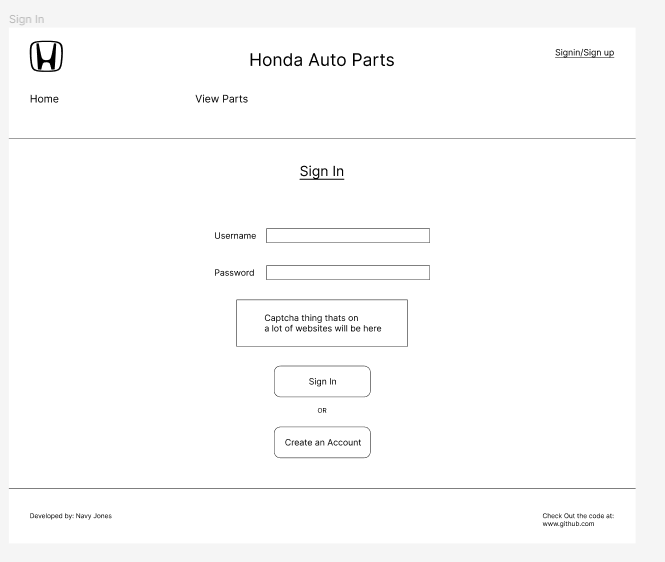
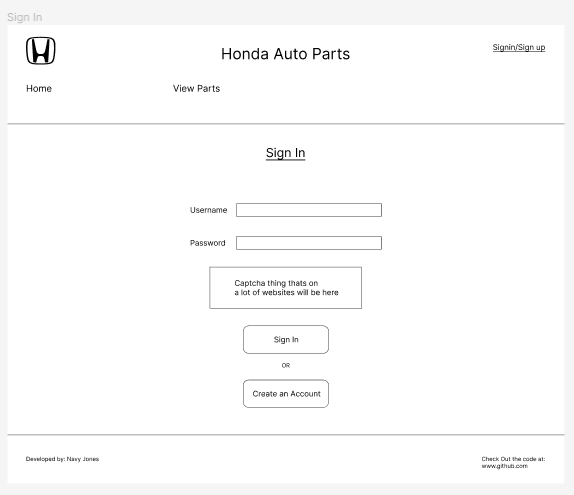
Redid the screen designs, readme, project plan and user stories for the change in direction for the project

diff --git a/README.md b/README.md
@@ -3,16 +3,20 @@
 This repository will house my individual project for Enterprise Java.
 
 ### Problem Statement
-For this project I wanted to recreate a project that I built in my Intro
-to PHP w/MySQL class a few semesters ago (here it is on GitHub https://github.com/jonesna213/Auto-Parts-Project). 
-The project is a honda civic auto parts shop where the user is able to create an account, view/search parts, 
-add/remove parts to a cart, and checkout (not an actual payment process, just for show). This project
-doesn't have any real purpose I just think it would be fun to create a most realistic ecommerce
-website as I can since I have gained more knowledge than I had when I built it the first time.
-Some addons I would like to add if I have time after doing the basics are things like saving items
-to a favorites, check fitment (I believe there's api's that do this), some way to update the items
-as in put new items in and update the prices based off what there being sold for.
-
+For this project I started wanting to recreate a project I built in my Intro to PHP w/MySQL class a few semesters
+ago (here it is on GitHub https://github.com/jonesna213/Auto-Parts-Project), but I decided I wanted to change it up a bit. 
+Instead of it being a shopping website I wanted to turn it into a parts look up site. Still for 6th gen Honda 
+Civics, but a site similar to https://pcpartpicker.com where you can search for parts and then for each part 
+it will show you different websites where they are being sold, so comparing prices and finding parts becomes 
+easier. The big challenge for this project is going to be getting all the data from different websites and putting
+it all together into my site. I think its do-able, but going to be difficult. In the site you will be able to
+create and account, view/search for parts and save/un-save parts. For the searching for parts it will be you 
+can search by name or part # also by category like breaks, exhaust, engine, etc. Some possible addons if time allows
+would be to add like a save your vehicle feature where it only shows parts that fit your vehicle (even though
+most 6th gen Civic parts are the same, some are slightly different. Trust me, ive ran into that problem before). 
+My goal would be to get all the parts on the site, but I know that's not completely reasonable for the time frame.
+So, my goal is to get as many as possible and keep expanding it even after class is over because as an owner of a
+6th gen Civic this would be very helpful and some friends of mine would like it as well.
 
 ### Project Technologies/Techniques
  * Database
@@ -20,16 +24,16 @@ as in put new items in and update the prices based off what there being sold for
  * IDE
    * IntelliJ IDEA
  * CSS
-   * Bootstrap & custom css
+   * Bootstrap 5 & custom css
  * Dependency Management
-   * Maven
+   * Maven 3
  * Security/Authentication
-   * Tomcat's JDBC Realm Authentication
+   * Amazon Cognito
  * ORM Framework
-   * Hibernate
+   * Hibernate 5
  * Web Services consumed using Java
-   * TBD thinking maybe the captcha thing that's on a lot of websites when signing in if 
-     I can't think of anything else
+   * Google Captcha for signing in
+   * Possibly more, will update if needed
  * Data Validation
    * JQuery form validation
  * Logging
@@ -38,9 +42,10 @@ as in put new items in and update the prices based off what there being sold for
    * AWS
  * Independent Research Topic
    * JQuery form validation
-   * Will add more when needed
+   * JSoup
+   * Possibly more, will update if needed
  * Unit Testing
-   * JUnit
+   * JUnit 4.12
 
 ### [Screens Designs](DesignDocuments/ScreenDesign.md)
 ### [Project Plan](DesignDocuments/ProjectPlan.md)

diff --git a/DesignDocuments/UserStories.md b/DesignDocuments/UserStories.md
@@ -2,36 +2,33 @@
 
 _! = MVP_ 
 ### Sign up
-! As a new user I want to create an account so that I can add items to my cart 
+! As a new user I want to create an account so that I can save items
 
 ### Sign In
-! As a user I want to be able to sign in so that I can add items to my cart\
+! As a user I want to be able to sign in so that I can save items\
 ! As a user I want to be able to sign out with a verification that I want to sign out
 
 ### Search
-! As a user I want to be able to search for items to add to my cart \
-As a user I want to be able to search by category
+! As a user I want to be able to search for items to save \
+! As a user I want to be able to search by category \
+! As a user I want to be able to search by part #
 
 ### Items
-! As a user I want to be able to see a picture of items, see the cost, and select a quantity 
+! As a user I want to be able to see a picture of items, see the cost from different websites, 
+and be able save items \
+As a user I want to be able to rate items and see ratings \
+As a user I want to be able to leave a review and see reviews
 
-### Checkout
-! As a user I want to be able to see my total so that I can verify It's correct before checkout\
-As a user I want to get an email receipt of my order so that I have a proof of purchase
-
-### Cart
-! As a user I want to see how many items are in my cart from any page \
-! As a user I want to be able to remove items from my cart \
-! As a user I want to be able to add items to my cart \
-! As a user I want to be able to check out from the view cart page
+### Saved Items
+! As a user I want to be able to see all my saved items \
+! As a user I want to be able to easily add/remove items from my saved items \
+! As a user I want to be able to easily find all my saved items
 
 ### Admin
-! As an admin I want to be able to add/edit/delete items on the shop \
+ As an admin I want to be able to add/edit/delete items on the shop \
 ! As an admin I want users to solve a captcha before logging in \
 ! As an admin I want to be able to sign in like a normal user but have admin privileges 
 
 ### Misc
-As a user I want to be able to save items as a favorite\
-As a user I want to be able to see all my favorites\
 ! As a user I want to be able to view/edit my profile \
-As a user I want to be able to check the fitment of the part to my car
+As a user I want to be able to save my vehicle for easy finding parts

diff --git a/DesignDocuments/ProjectPlan.md b/DesignDocuments/ProjectPlan.md
@@ -13,22 +13,25 @@
 
 ### Week 4
 - [x] Finish up screens design
-- [ ] Start on building the homepage/sign in/signup
 
 ### Week 5
-- [ ] Build the database design
-- [ ] Create other pages and add css to them (not completely functioning just looking right)
+- [x] Redo screens, user stories, project plan and readme for project change in direction
+- [ ] Start to Build the database design
+- [ ] Start making the main pages
 
 ### Week 6
 - [ ] Get database setup with hibernate
-- [ ] Get main functionality down (search, add/remove cart, view/edit profile, etc.)
+- [ ] Continue working on main pages
+- [ ] Start diving into JSoup to get data
 
 ### Week 7
 - [ ] Unit tests for database done
 - [ ] Log4J is Implemented
+- [ ] Keep working with JSoup (Not sure how long this is going to take)
 
 ### Week 8
-- [ ] Write unit tests for rest of code
+- [ ] Get pages complete (as in design wise, not functionality with db)
+- [ ] Hopefully have some data from JSoup to put into database
 
 ### Week 9
 - [ ] Deployed to AWS
@@ -39,6 +42,7 @@
 
 ### Week 11-14
 - [ ] Finish up project
+- [ ] Try to automate the JSoup process for easy updating
 - [ ] If time add in non MVP stuff
 
 ### Week 15

diff --git a/DesignDocuments/ScreenDesign.md b/DesignDocuments/ScreenDesign.md
@@ -12,20 +12,20 @@ will probably look like.
 ### SignIn Page
 ![SignIn Page](ScreenDesignsImages/SignInPage.PNG)
 
+The next 3 pages (view parts, saved parts, and prices) are more than likely going to change.
+It all really depends on what data im able to scrape off websites.
+
 ### View Parts Page
 ![View Parts Page](ScreenDesignsImages/ViewPartsPage.PNG)
 
+### Saved Parts Page
+![Saved Parts Page](ScreenDesignsImages/SavedPartsPage.PNG)
+
+### See Prices Page
+![See Prices Page](ScreenDesignsImages/SeePricesPage.PNG)
+
 ### View Profile Page
 ![View Profile Page](ScreenDesignsImages/ViewProfilePage.PNG)
-
-### View Cart Page
-![View Cart Page](ScreenDesignsImages/ViewCartPage.PNG)
-
-### Checkout Page
-![Checkout Page](ScreenDesignsImages/CheckoutPage.PNG)
-
-### Receipt Page
-![Receipt Page](ScreenDesignsImages/ReceiptPage.PNG)
 
 ### Sign Out Page
 ![Sign Out Page](ScreenDesignsImages/SignOutPage.PNG)

diff --git a/Journal.md b/Journal.md
@@ -29,3 +29,9 @@ Tasks Completed:
 Tasks Completed:
  * Finished Screen Designs
  * Submitted for first checkpoint
+
+### Week 5
+
+9/27/2022  1.5 hours
+Tasks Completed:
+ * Remade Screens designs and redid readme, project plan and user stories for change in project direction
